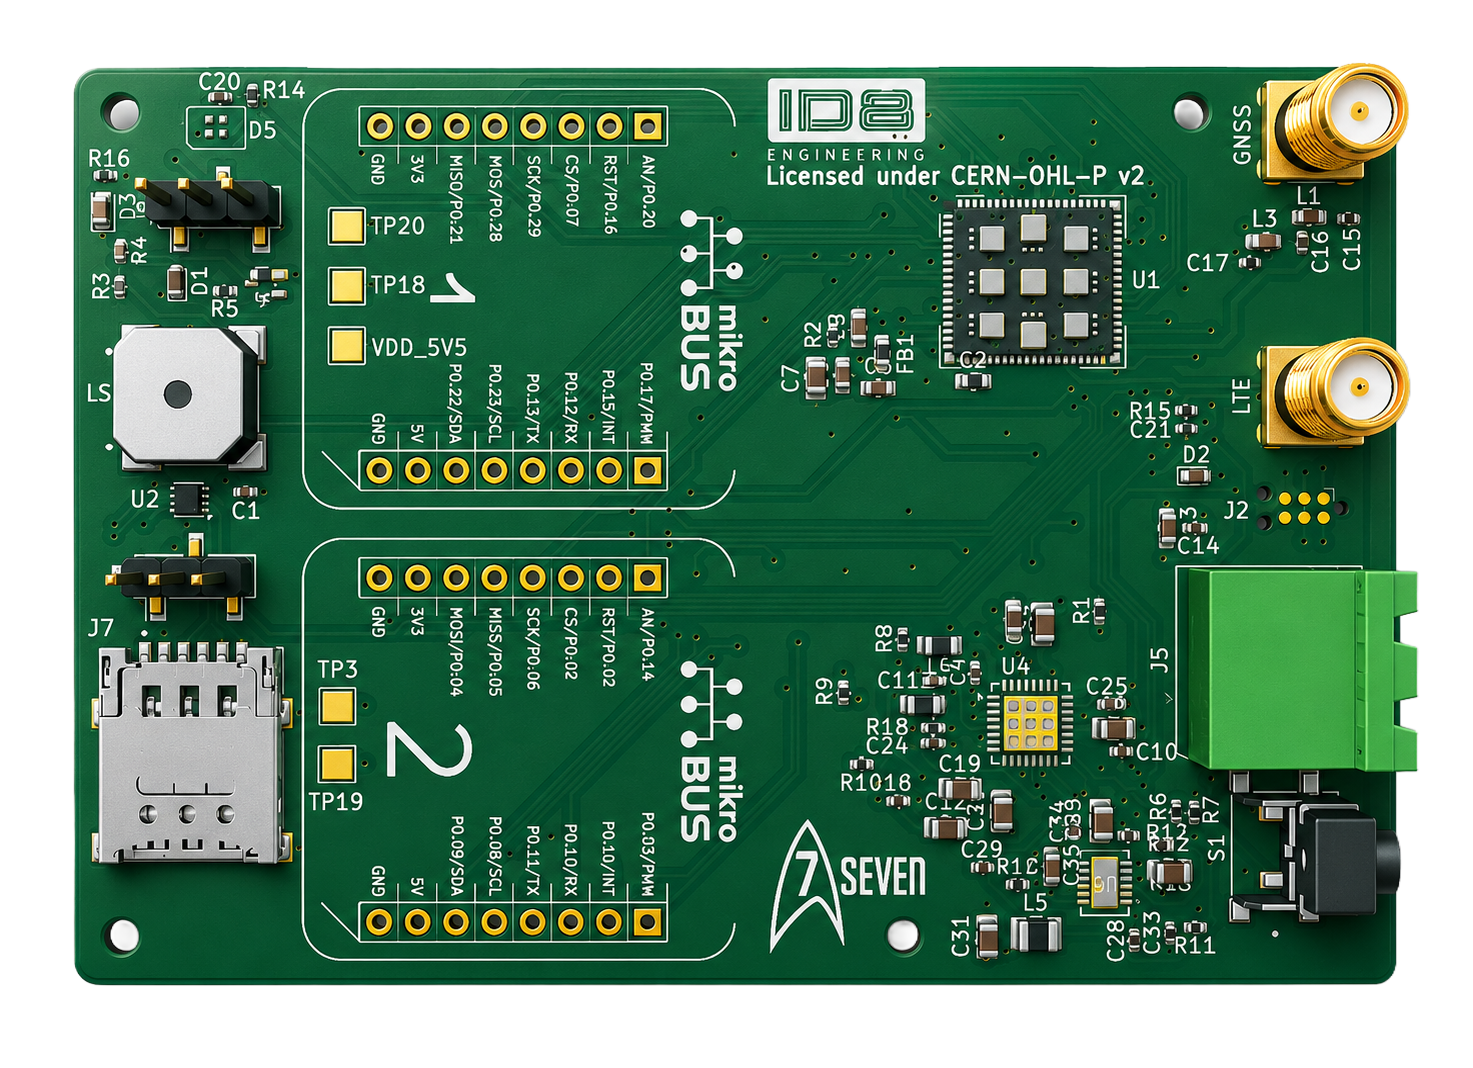
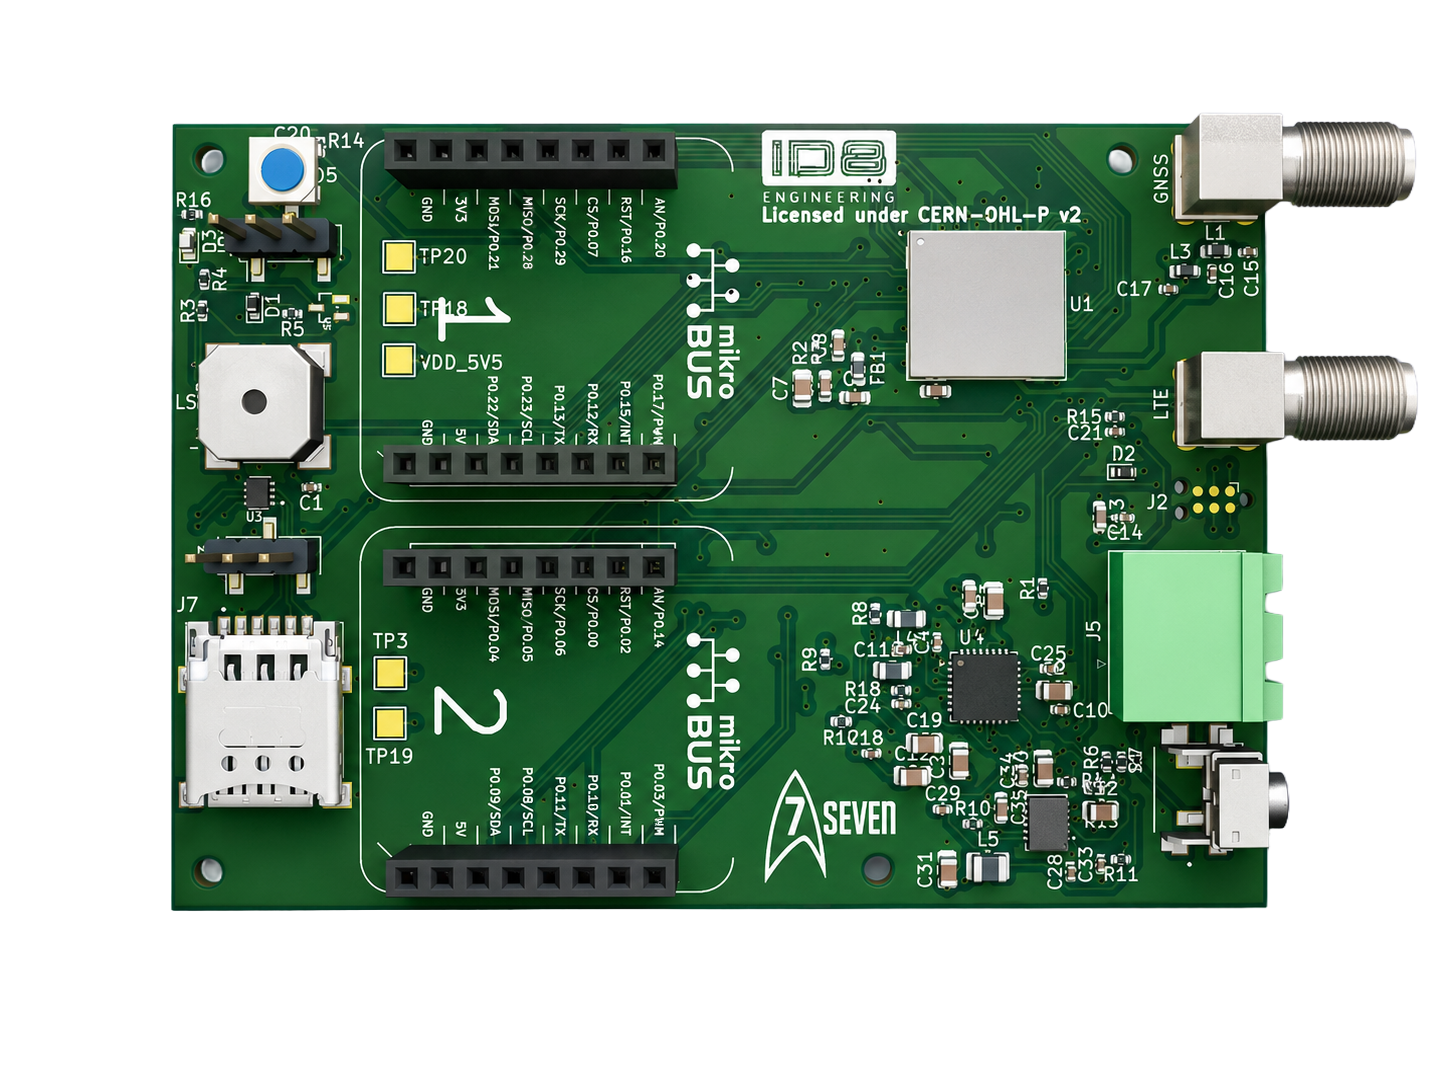
Refresh Seven hero and hardware imagery

diff --git a/index.html b/index.html
@@ -76,8 +76,8 @@
     </div>
     <div class="hero-visual">
       <div class="board-frame" id="boardFrame">
-        <img src="assets/hero-board.png" alt="Seven nRF9151 board illustration" class="pcb-placeholder pcb-dark" style="width:100%;height:auto;">
-        <img src="assets/hero-board-light.png" alt="Seven nRF9151 board illustration" class="pcb-placeholder pcb-light" style="width:100%;height:auto;display:none;">
+        <img src="assets/hero-board.png?v=20260720" alt="Seven nRF9151 board illustration" class="pcb-placeholder pcb-dark" width="1264" height="857" style="width:100%;height:auto;">
+        <img src="assets/hero-board-light.png?v=20260720" alt="Seven nRF9151 board illustration" class="pcb-placeholder pcb-light" width="1288" height="861" style="width:100%;height:auto;display:none;">
       
         <div class="boot" id="bootStrip">
         <span class="connecting">Connecting<span class="dot">…</span></span>
@@ -111,7 +111,7 @@
 
         <div class="hw-image-col">
           <div class="hw-board-frame">
-            <img src="assets/seven_photo.png" alt="Seven nRF9151 Development Board" style="width:100%;border-radius:8px;">
+            <img src="assets/seven_photo.png?v=20260720" alt="Seven nRF9151 Development Board" width="1448" height="1086" style="width:100%;height:auto;border-radius:8px;">
           </div>
 
           <a href="https://github.com/id8-engineering/seven-hardware" class="github-link" target="_blank" rel="noopener">